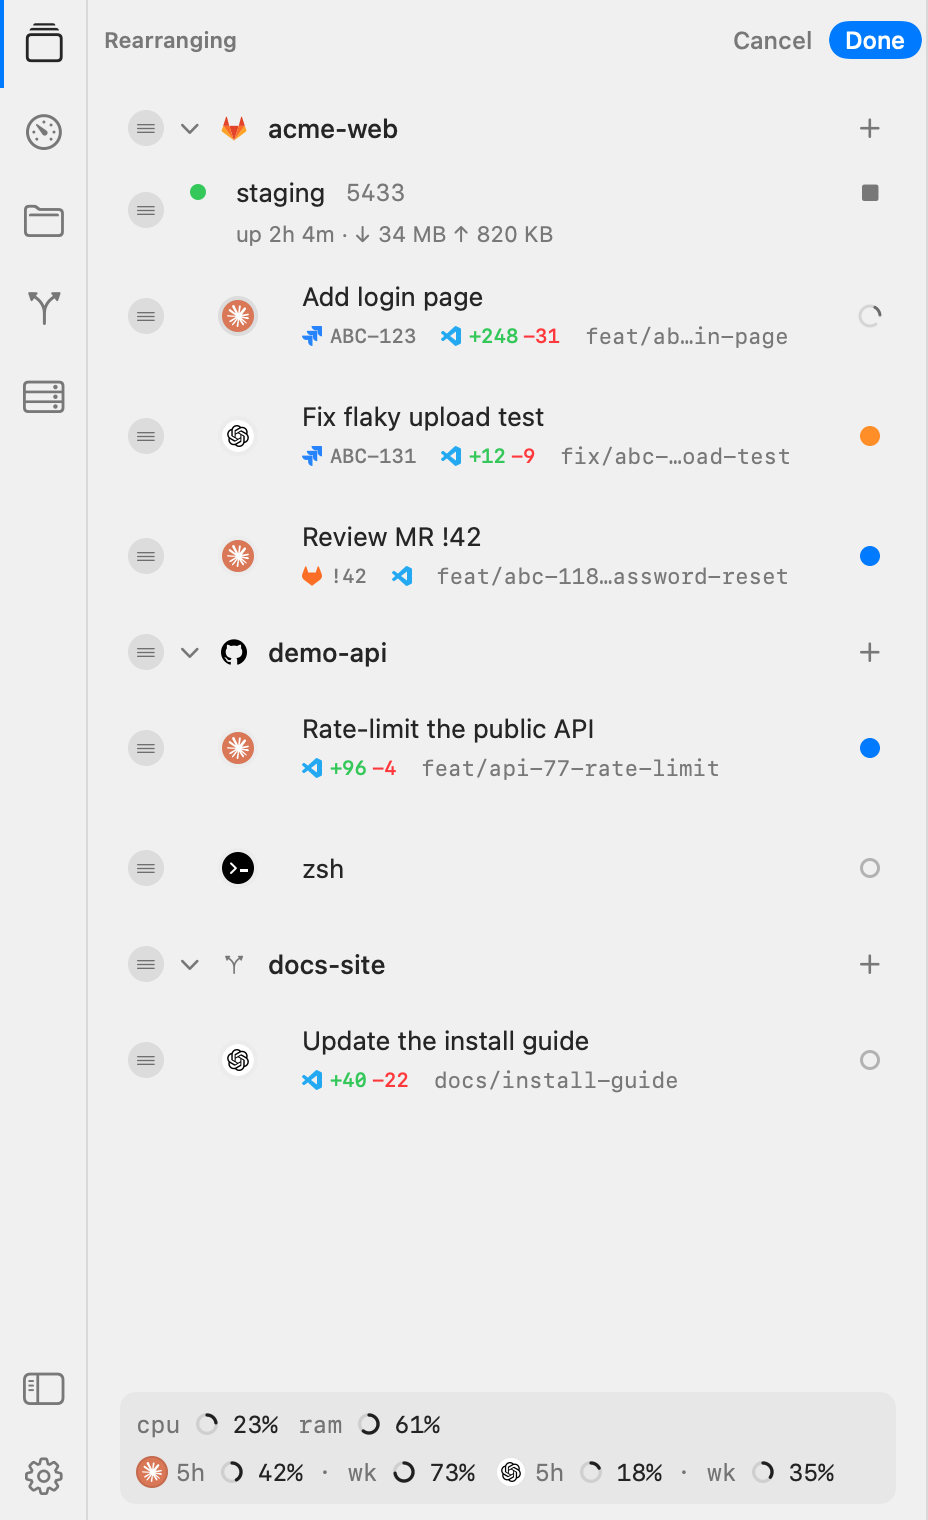
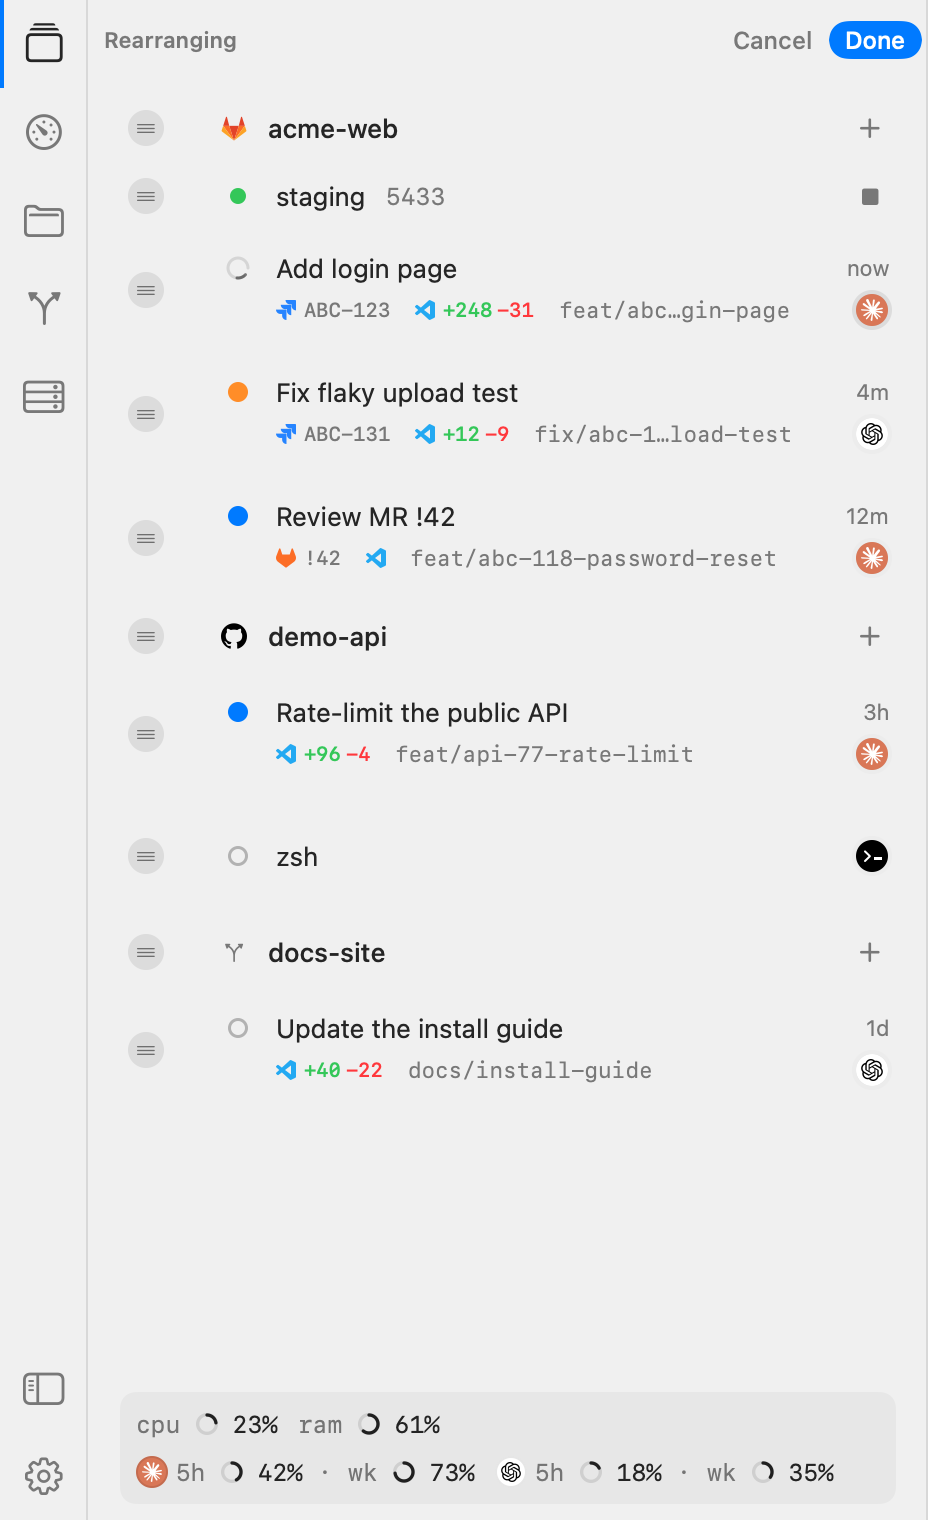
README: screenshots re-rendered for the status-first sidebar
A row's age reads the demo's pinned clock, so the renders show now, 4m,
12m, 3h and 1d rather than drifting with the wall clock.

diff --git a/Shellforge/Tests/ShellforgeUITests/ReadmeScreenshots.swift b/Shellforge/Tests/ShellforgeUITests/ReadmeScreenshots.swift
@@ -242,6 +242,9 @@ private struct DemoWorkspace {
     }
 
     /// The window's tabs, “Add login page” selected, and what the daemon says of each.
+    /// How long before the demo's clock each tab last reported, for the rows' ages: now, 4m, 12m, 3h, 1d.
+    static let reportAges: [TimeInterval] = [10, 4 * 60, 12 * 60, 3 * 3600, 26 * 3600, 0]
+
     func open(in host: FakeTerminalHost, feed: FakeFeed) {
         let tabs: [(task: TaskItem?, agent: SessionAgent, state: SessionState, context: Int?)] = [
             (login, .claude, .working, 38), (flaky, .codex, .needsInput, 64), (review, .claude, .done, 21),
@@ -260,7 +263,7 @@ private struct DemoWorkspace {
                                         cwd: tab.task?.worktreePath ?? api.path, active: index == 0, contextPercent: tab.context,
                                         tokens: tab.task == nil ? nil : TokenTally(input: 182_400 / (index + 1), cached: 120_000 / (index + 1),
                                                                                    output: 14_600 / (index + 1)),
-                                        reportedAt: DemoClock.now.timeIntervalSince1970))
+                                        reportedAt: DemoClock.now.timeIntervalSince1970 - Self.reportAges[index]))
         }
         host.tabs = snapshots
         host.selectedTabId = snapshots[0].id

diff --git a/Shellforge/Sources/ShellforgeUI/Sidebar/ActivityAge.swift b/Shellforge/Sources/ShellforgeUI/Sidebar/ActivityAge.swift
@@ -26,11 +26,13 @@ enum ActivityAge {
 /// The age, redrawn each minute; nothing when there is no report.
 struct ActivityAgeLabel: View {
     let since: Date?
+    /// A test's pinned clock (the README's renders), else the wall clock.
+    @Environment(\.footerClock) private var clock
 
     var body: some View {
         if let since {
             TimelineView(.periodic(from: since, by: 60)) { context in
-                AgeText(text: ActivityAge.text(since: since, now: context.date))
+                AgeText(text: ActivityAge.text(since: since, now: clock?.now ?? context.date))
             }
             .help(Self.help(since))
         }
